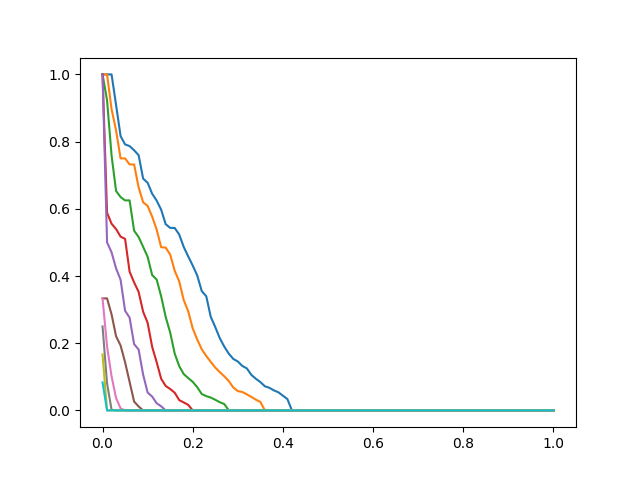
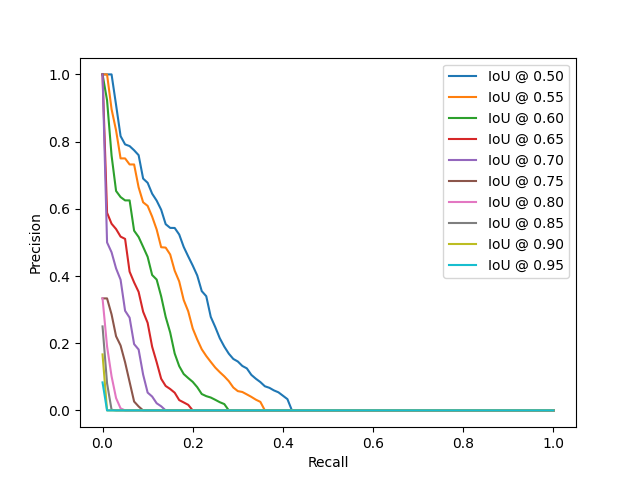
Renamed pr curve function because it saves the curve fig.

Changed region(s): [[0.6875, 0.125, 0.9062, 0.5625], [0.4688, 0.9375, 0.5625, 1.0], [0.0312, 0.4375, 0.0625, 0.5625]]

diff --git a/fbdetr/datasets/coco_eval.py b/fbdetr/datasets/coco_eval.py
@@ -62,21 +62,26 @@ class CocoEvaluator(object):
         for coco_eval in self.coco_eval.values():
             coco_eval.accumulate()
 
-    def return_pr_curve(self):
+    def save_pr_curve(self):
         coco_eval = self.coco_eval['bbox']
         precision = coco_eval.eval['precision']
         area_idx = 0
         class_idx = 0
         max_det_idx = -1
         precision = precision[:, :, class_idx, area_idx, max_det_idx] # T, 101
-        n_iou_thres = precision.shape[0]
-        n_recall = precision.shape[1]
         precision = precision.T
+        n_recall = precision.shape[0]
         recall = np.linspace(0., 1., n_recall)
+        iou_thresholds = [f"IoU @ {thres:.2f}" for thres in np.arange(0.5, 1., 0.05)]
         fig, ax = plt.subplots()
         # precision would need to be shape N,m where N is the number of datapoints
         # recall would need to be shape N,m where etc
-        ax.plot(recall, precision)
+        lines = ax.plot(recall, precision)
+        for l, thres in zip(lines, iou_thresholds):
+            l.set_label(thres)
+        ax.legend()
+        ax.set_xlabel("Recall")
+        ax.set_ylabel("Precision")
         fig.savefig("pr curve.png")
         return ax
 

diff --git a/fbdetr/engine.py b/fbdetr/engine.py
@@ -135,7 +135,7 @@ def evaluate(model, criterion, postprocessors, data_loader, base_ds, device, out
     if coco_evaluator is not None:
         coco_evaluator.accumulate()
         coco_evaluator.summarize()
-        ax = coco_evaluator.return_pr_curve()
+        ax = coco_evaluator.save_pr_curve()
     panoptic_res = None
     if panoptic_evaluator is not None:
         panoptic_res = panoptic_evaluator.summarize()
